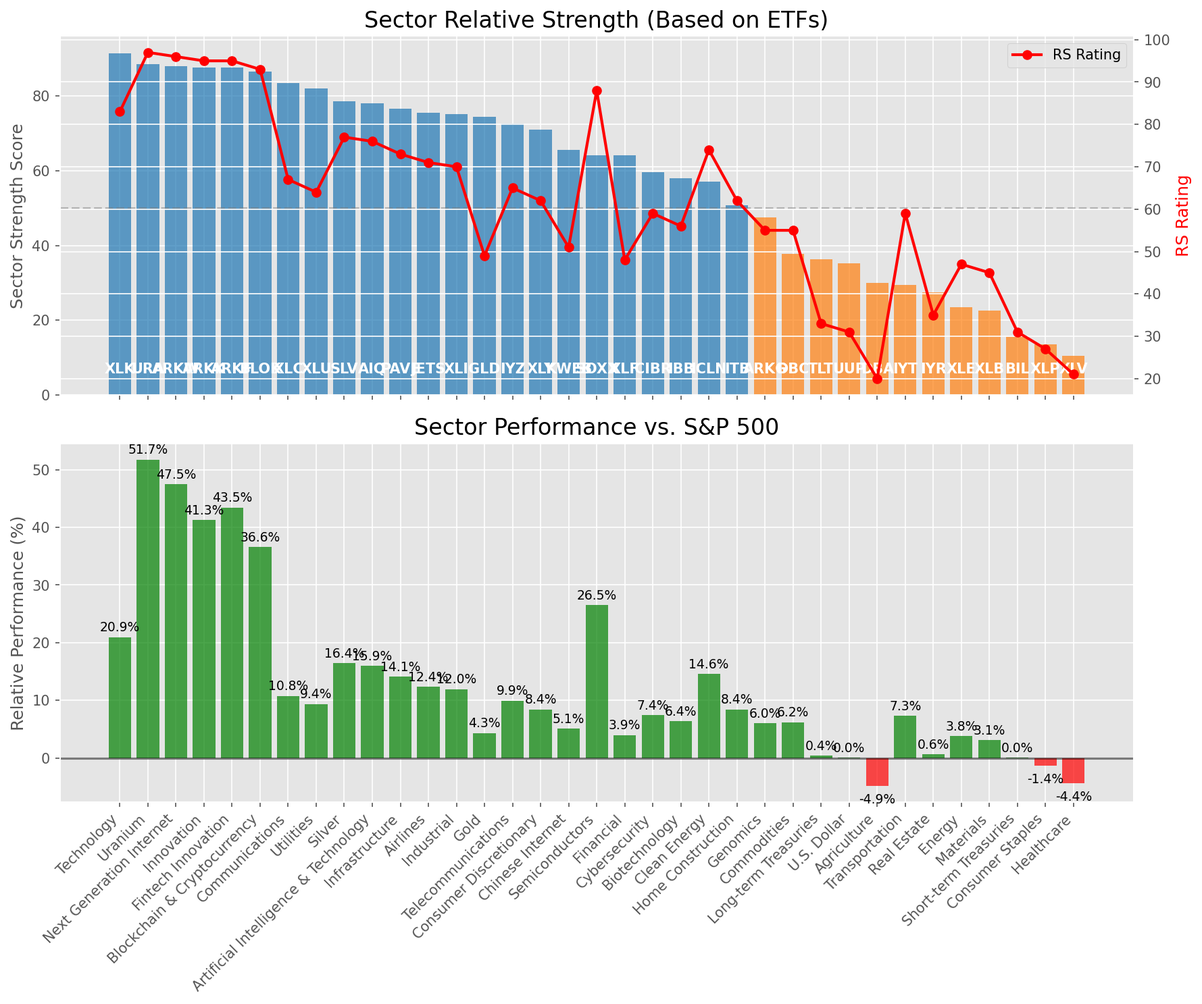
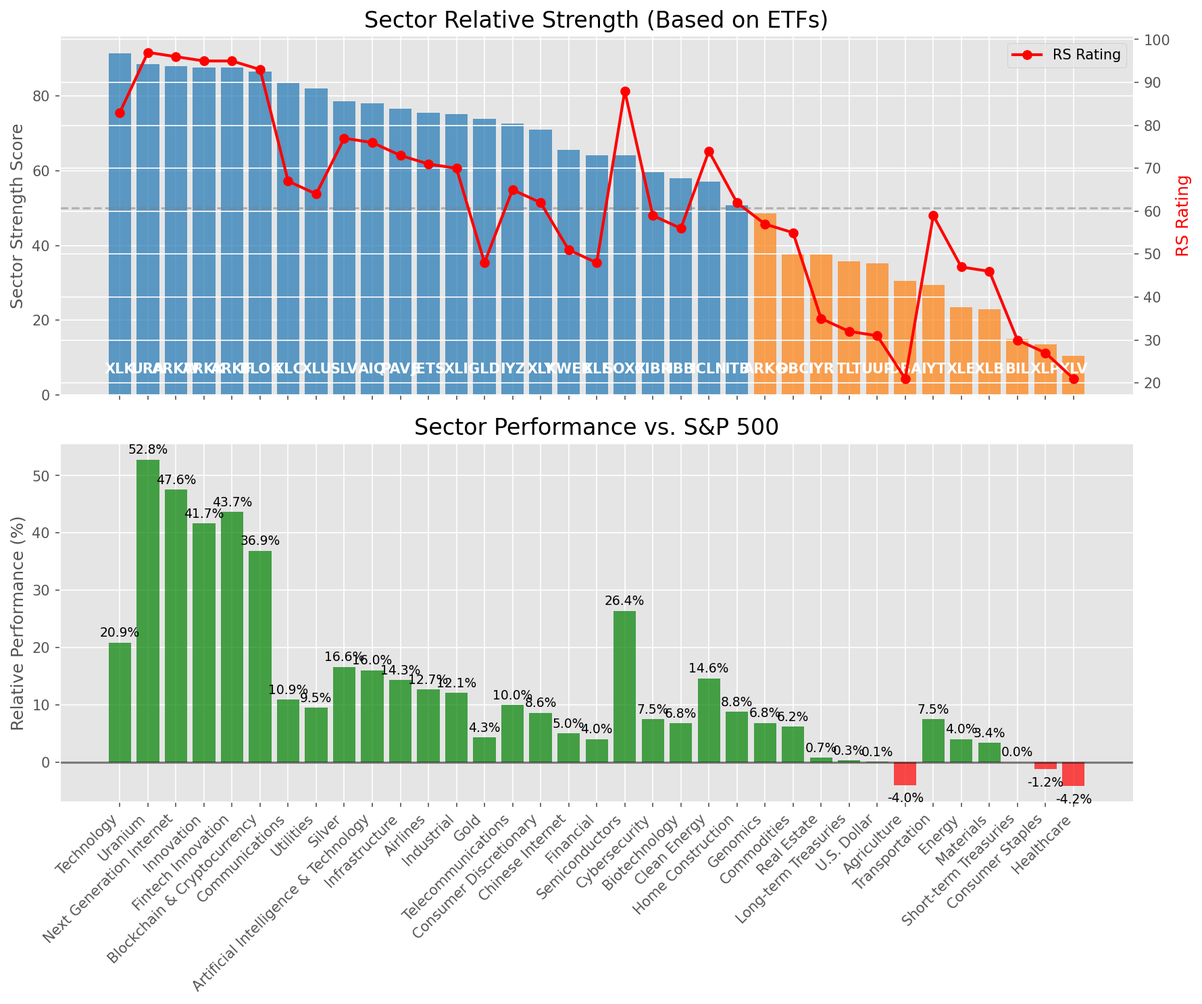
Add market report for 2025-08-04

diff --git a/oneil_relative_strength_report_2025-08-04.md b/oneil_relative_strength_report_2025-08-04.md
@@ -9,11 +9,11 @@
 | Metric | Value |
 |--------|-------|
 | **Market Valuation** | **Fair Valued** |
-| **Current Ratio** | 10.22 |
+| **Current Ratio** | 10.23 |
 | **Historical Mean** | 9.57 |
 | **Standard Deviation** | 0.57 |
 | **Z-Score (StdDev from Mean)** | 0.90 |
-| **Total Market Cap** | $309.88 trillion |
+| **Total Market Cap** | $310.24 trillion |
 | **GDP** | $30.33 trillion |
 
 ## **Market Insights**
@@ -49,41 +49,41 @@ Based on William O'Neil's Relative Strength Methodology
 
 | ETF | Strength | RS Rating | Performance | Above Key MAs | Trend | Sector |
 |-----|----------|-----------|-------------|--------------|-------|--------|
-| [XLK](https://www.tradingview.com/chart/?symbol=XLK) | 91.5 | 83.0 | 20.94% | 10d ✓, 50d ✓, 200d ✓ | ↗ | Technology |
-| [URA](https://www.tradingview.com/chart/?symbol=URA) | 88.6 | 97.0 | 51.74% | 10d ✗, 50d ✓, 200d ✓ | ↗ | Uranium |
-| [ARKW](https://www.tradingview.com/chart/?symbol=ARKW) | 88.1 | 96.0 | 47.46% | 10d ✗, 50d ✓, 200d ✓ | ↗ | Next Generation Internet |
-| [ARKK](https://www.tradingview.com/chart/?symbol=ARKK) | 87.6 | 95.0 | 41.29% | 10d ✗, 50d ✓, 200d ✓ | ↗ | Innovation |
-| [ARKF](https://www.tradingview.com/chart/?symbol=ARKF) | 87.6 | 95.0 | 43.46% | 10d ✗, 50d ✓, 200d ✓ | ↗ | Fintech Innovation |
-| [BLOK](https://www.tradingview.com/chart/?symbol=BLOK) | 86.6 | 93.0 | 36.56% | 10d ✗, 50d ✓, 200d ✓ | ↗ | Blockchain & Cryptocurrency |
-| [XLC](https://www.tradingview.com/chart/?symbol=XLC) | 83.5 | 67.0 | 10.77% | 10d ✓, 50d ✓, 200d ✓ | ↗ | Communications |
-| [XLU](https://www.tradingview.com/chart/?symbol=XLU) | 82.0 | 64.0 | 9.37% | 10d ✓, 50d ✓, 200d ✓ | ↗ | Utilities |
-| [SLV](https://www.tradingview.com/chart/?symbol=SLV) | 78.6 | 77.0 | 16.43% | 10d ✗, 50d ✓, 200d ✓ | ↗ | Silver |
-| [AIQ](https://www.tradingview.com/chart/?symbol=AIQ) | 78.1 | 76.0 | 15.95% | 10d ✗, 50d ✓, 200d ✓ | ↗ | Artificial Intelligence & Technology |
-| [PAVE](https://www.tradingview.com/chart/?symbol=PAVE) | 76.6 | 73.0 | 14.12% | 10d ✗, 50d ✓, 200d ✓ | ↗ | Infrastructure |
-| [JETS](https://www.tradingview.com/chart/?symbol=JETS) | 75.6 | 71.0 | 12.36% | 10d ✗, 50d ✓, 200d ✓ | ↗ | Airlines |
-| [XLI](https://www.tradingview.com/chart/?symbol=XLI) | 75.1 | 70.0 | 11.96% | 10d ✗, 50d ✓, 200d ✓ | ↗ | Industrial |
-| [GLD](https://www.tradingview.com/chart/?symbol=GLD) | 74.5 | 49.0 | 4.30% | 10d ✓, 50d ✓, 200d ✓ | ↗ | Gold |
-| [IYZ](https://www.tradingview.com/chart/?symbol=IYZ) | 72.6 | 65.0 | 9.93% | 10d ✗, 50d ✓, 200d ✓ | ↗ | Telecommunications |
-| [XLY](https://www.tradingview.com/chart/?symbol=XLY) | 71.1 | 62.0 | 8.41% | 10d ✗, 50d ✓, 200d ✓ | ↗ | Consumer Discretionary |
-| [KWEB](https://www.tradingview.com/chart/?symbol=KWEB) | 65.6 | 51.0 | 5.07% | 10d ✗, 50d ✓, 200d ✓ | ↗ | Chinese Internet |
-| [SOXX](https://www.tradingview.com/chart/?symbol=SOXX) | 64.1 | 88.0 | 26.52% | 10d ✗, 50d ✓, 200d ✓ | ↘ | Semiconductors |
-| [XLF](https://www.tradingview.com/chart/?symbol=XLF) | 64.1 | 48.0 | 3.95% | 10d ✗, 50d ✓, 200d ✓ | ↗ | Financial |
-| [CIBR](https://www.tradingview.com/chart/?symbol=CIBR) | 59.7 | 59.0 | 7.40% | 10d ✗, 50d ✗, 200d ✓ | ↗ | Cybersecurity |
-| [IBB](https://www.tradingview.com/chart/?symbol=IBB) | 58.0 | 56.0 | 6.40% | 10d ✓, 50d ✓, 200d ✓ | ↘ | Biotechnology |
-| [ICLN](https://www.tradingview.com/chart/?symbol=ICLN) | 57.1 | 74.0 | 14.57% | 10d ✗, 50d ✓, 200d ✓ | ↘ | Clean Energy |
-| [ITB](https://www.tradingview.com/chart/?symbol=ITB) | 50.8 | 62.0 | 8.42% | 10d ✓, 50d ✓, 200d ✗ | ↘ | Home Construction |
-| [ARKG](https://www.tradingview.com/chart/?symbol=ARKG) | 47.6 | 55.0 | 6.04% | 10d ✗, 50d ✓, 200d ✓ | ↘ | Genomics |
+| [XLK](https://www.tradingview.com/chart/?symbol=XLK) | 91.5 | 83.0 | 20.89% | 10d ✓, 50d ✓, 200d ✓ | ↗ | Technology |
+| [URA](https://www.tradingview.com/chart/?symbol=URA) | 88.6 | 97.0 | 52.79% | 10d ✗, 50d ✓, 200d ✓ | ↗ | Uranium |
+| [ARKW](https://www.tradingview.com/chart/?symbol=ARKW) | 88.1 | 96.0 | 47.59% | 10d ✗, 50d ✓, 200d ✓ | ↗ | Next Generation Internet |
+| [ARKK](https://www.tradingview.com/chart/?symbol=ARKK) | 87.6 | 95.0 | 41.68% | 10d ✗, 50d ✓, 200d ✓ | ↗ | Innovation |
+| [ARKF](https://www.tradingview.com/chart/?symbol=ARKF) | 87.6 | 95.0 | 43.68% | 10d ✗, 50d ✓, 200d ✓ | ↗ | Fintech Innovation |
+| [BLOK](https://www.tradingview.com/chart/?symbol=BLOK) | 86.6 | 93.0 | 36.89% | 10d ✗, 50d ✓, 200d ✓ | ↗ | Blockchain & Cryptocurrency |
+| [XLC](https://www.tradingview.com/chart/?symbol=XLC) | 83.5 | 67.0 | 10.92% | 10d ✓, 50d ✓, 200d ✓ | ↗ | Communications |
+| [XLU](https://www.tradingview.com/chart/?symbol=XLU) | 82.0 | 64.0 | 9.53% | 10d ✓, 50d ✓, 200d ✓ | ↗ | Utilities |
+| [SLV](https://www.tradingview.com/chart/?symbol=SLV) | 78.6 | 77.0 | 16.62% | 10d ✗, 50d ✓, 200d ✓ | ↗ | Silver |
+| [AIQ](https://www.tradingview.com/chart/?symbol=AIQ) | 78.1 | 76.0 | 16.02% | 10d ✗, 50d ✓, 200d ✓ | ↗ | Artificial Intelligence & Technology |
+| [PAVE](https://www.tradingview.com/chart/?symbol=PAVE) | 76.6 | 73.0 | 14.31% | 10d ✗, 50d ✓, 200d ✓ | ↗ | Infrastructure |
+| [JETS](https://www.tradingview.com/chart/?symbol=JETS) | 75.6 | 71.0 | 12.69% | 10d ✗, 50d ✓, 200d ✓ | ↗ | Airlines |
+| [XLI](https://www.tradingview.com/chart/?symbol=XLI) | 75.1 | 70.0 | 12.12% | 10d ✗, 50d ✓, 200d ✓ | ↗ | Industrial |
+| [GLD](https://www.tradingview.com/chart/?symbol=GLD) | 74.0 | 48.0 | 4.34% | 10d ✓, 50d ✓, 200d ✓ | ↗ | Gold |
+| [IYZ](https://www.tradingview.com/chart/?symbol=IYZ) | 72.6 | 65.0 | 9.96% | 10d ✗, 50d ✓, 200d ✓ | ↗ | Telecommunications |
+| [XLY](https://www.tradingview.com/chart/?symbol=XLY) | 71.1 | 62.0 | 8.61% | 10d ✗, 50d ✓, 200d ✓ | ↗ | Consumer Discretionary |
+| [KWEB](https://www.tradingview.com/chart/?symbol=KWEB) | 65.6 | 51.0 | 5.03% | 10d ✗, 50d ✓, 200d ✓ | ↗ | Chinese Internet |
+| [XLF](https://www.tradingview.com/chart/?symbol=XLF) | 64.1 | 48.0 | 4.04% | 10d ✗, 50d ✓, 200d ✓ | ↗ | Financial |
+| [SOXX](https://www.tradingview.com/chart/?symbol=SOXX) | 64.1 | 88.0 | 26.42% | 10d ✗, 50d ✓, 200d ✓ | ↘ | Semiconductors |
+| [CIBR](https://www.tradingview.com/chart/?symbol=CIBR) | 59.7 | 59.0 | 7.48% | 10d ✗, 50d ✗, 200d ✓ | ↗ | Cybersecurity |
+| [IBB](https://www.tradingview.com/chart/?symbol=IBB) | 58.0 | 56.0 | 6.76% | 10d ✓, 50d ✓, 200d ✓ | ↘ | Biotechnology |
+| [ICLN](https://www.tradingview.com/chart/?symbol=ICLN) | 57.1 | 74.0 | 14.61% | 10d ✗, 50d ✓, 200d ✓ | ↘ | Clean Energy |
+| [ITB](https://www.tradingview.com/chart/?symbol=ITB) | 50.8 | 62.0 | 8.78% | 10d ✓, 50d ✓, 200d ✗ | ↘ | Home Construction |
+| [ARKG](https://www.tradingview.com/chart/?symbol=ARKG) | 48.6 | 57.0 | 6.84% | 10d ✗, 50d ✓, 200d ✓ | ↘ | Genomics |
 | [DBC](https://www.tradingview.com/chart/?symbol=DBC) | 37.7 | 55.0 | 6.17% | 10d ✗, 50d ✗, 200d ✓ | ↘ | Commodities |
-| [TLT](https://www.tradingview.com/chart/?symbol=TLT) | 36.3 | 33.0 | 0.38% | 10d ✓, 50d ✓, 200d ✗ | ↘ | Long-term Treasuries |
-| [UUP](https://www.tradingview.com/chart/?symbol=UUP) | 35.3 | 31.0 | 0.04% | 10d ✓, 50d ✓, 200d ✗ | ↘ | U.S. Dollar |
-| [DBA](https://www.tradingview.com/chart/?symbol=DBA) | 30.0 | 20.0 | -4.86% | 10d ✗, 50d ✗, 200d ✗ | ↗ | Agriculture |
-| [IYT](https://www.tradingview.com/chart/?symbol=IYT) | 29.5 | 59.0 | 7.32% | 10d ✗, 50d ✗, 200d ✗ | ↘ | Transportation |
-| [IYR](https://www.tradingview.com/chart/?symbol=IYR) | 27.4 | 35.0 | 0.62% | 10d ✗, 50d ✓, 200d ✗ | ↘ | Real Estate |
-| [XLE](https://www.tradingview.com/chart/?symbol=XLE) | 23.5 | 47.0 | 3.80% | 10d ✗, 50d ✗, 200d ✗ | ↘ | Energy |
-| [XLB](https://www.tradingview.com/chart/?symbol=XLB) | 22.5 | 45.0 | 3.11% | 10d ✗, 50d ✗, 200d ✗ | ↘ | Materials |
-| [BIL](https://www.tradingview.com/chart/?symbol=BIL) | 15.5 | 31.0 | 0.02% | 10d ✗, 50d ✗, 200d ✗ | ↘ | Short-term Treasuries |
-| [XLP](https://www.tradingview.com/chart/?symbol=XLP) | 13.5 | 27.0 | -1.39% | 10d ✗, 50d ✗, 200d ✗ | ↘ | Consumer Staples |
-| [XLV](https://www.tradingview.com/chart/?symbol=XLV) | 10.5 | 21.0 | -4.37% | 10d ✗, 50d ✗, 200d ✗ | ↘ | Healthcare |
+| [IYR](https://www.tradingview.com/chart/?symbol=IYR) | 37.6 | 35.0 | 0.74% | 10d ✗, 50d ✓, 200d ✓ | ↘ | Real Estate |
+| [TLT](https://www.tradingview.com/chart/?symbol=TLT) | 35.8 | 32.0 | 0.29% | 10d ✓, 50d ✓, 200d ✗ | ↘ | Long-term Treasuries |
+| [UUP](https://www.tradingview.com/chart/?symbol=UUP) | 35.3 | 31.0 | 0.10% | 10d ✓, 50d ✓, 200d ✗ | ↘ | U.S. Dollar |
+| [DBA](https://www.tradingview.com/chart/?symbol=DBA) | 30.5 | 21.0 | -4.01% | 10d ✗, 50d ✗, 200d ✗ | ↗ | Agriculture |
+| [IYT](https://www.tradingview.com/chart/?symbol=IYT) | 29.5 | 59.0 | 7.50% | 10d ✗, 50d ✗, 200d ✗ | ↘ | Transportation |
+| [XLE](https://www.tradingview.com/chart/?symbol=XLE) | 23.5 | 47.0 | 4.01% | 10d ✗, 50d ✗, 200d ✗ | ↘ | Energy |
+| [XLB](https://www.tradingview.com/chart/?symbol=XLB) | 23.0 | 46.0 | 3.39% | 10d ✗, 50d ✗, 200d ✗ | ↘ | Materials |
+| [BIL](https://www.tradingview.com/chart/?symbol=BIL) | 15.0 | 30.0 | 0.02% | 10d ✗, 50d ✗, 200d ✗ | ↘ | Short-term Treasuries |
+| [XLP](https://www.tradingview.com/chart/?symbol=XLP) | 13.5 | 27.0 | -1.22% | 10d ✗, 50d ✗, 200d ✗ | ↘ | Consumer Staples |
+| [XLV](https://www.tradingview.com/chart/?symbol=XLV) | 10.5 | 21.0 | -4.15% | 10d ✗, 50d ✗, 200d ✗ | ↘ | Healthcare |
 
 ### **Sector ETF Performance Interpretation**
 
@@ -100,7 +100,7 @@ This table shows the relative strength metrics for different market sectors base
 
 The current market leadership is coming from the following sectors: **Technology, Uranium, Next Generation Internet**.
 
-The **Technology** sector (represented by **XLK**) is showing particularly strong relative strength with an RS rating of 83.0 and performance of 20.94% vs. the S&P 500. This sector is trading above its 10-day, 50-day, 200-day moving average(s). Investors should consider focusing on high RS stocks within these leading sectors for potential outperformance.
+The **Technology** sector (represented by **XLK**) is showing particularly strong relative strength with an RS rating of 83.0 and performance of 20.89% vs. the S&P 500. This sector is trading above its 10-day, 50-day, 200-day moving average(s). Investors should consider focusing on high RS stocks within these leading sectors for potential outperformance.
 
 ---
 
@@ -110,136 +110,131 @@ The following 58 stocks show exceptional relative strength:
 
 | RS Rating | Buy Score | Current Price | Chart | Name | Ticker |
 |-----------|-----------|---------------|-------|------|--------|
-| 100 | 100 | $106.30 | [Chart](https://www.tradingview.com/chart/?symbol=HOOD) | Robinhood Markets, Inc. Class A Common Stock | HOOD |
-| 100 | 100 | $156.29 | [Chart](https://www.tradingview.com/chart/?symbol=SEZL) | Sezzle Inc. Common Stock | SEZL |
-| 100 | 100 | $245.13 | [Chart](https://www.tradingview.com/chart/?symbol=DAVE) | Dave Inc. Class A Common Stock | DAVE |
-| 100 | 100 | $66.31 | [Chart](https://www.tradingview.com/chart/?symbol=MP) | MP Materials Corp. | MP |
-| 100 | 100 | $201.18 | [Chart](https://www.tradingview.com/chart/?symbol=CLS) | Celestica, Inc. | CLS |
-| 99 | 100 | $390.62 | [Chart](https://www.tradingview.com/chart/?symbol=TLN) | Talen Energy Corporation Common Stock | TLN |
-| 99 | 100 | $76.95 | [Chart](https://www.tradingview.com/chart/?symbol=LIF) | Life360, Inc. Common Stock | LIF |
-| 99 | 100 | $130.03 | [Chart](https://www.tradingview.com/chart/?symbol=RBLX) | Roblox Corporation | RBLX |
-| 99 | 100 | $210.74 | [Chart](https://www.tradingview.com/chart/?symbol=NET) | Cloudflare, Inc. Class A common stock, par value $0.001 per share | NET |
-| 98 | 100 | $59.22 | [Chart](https://www.tradingview.com/chart/?symbol=KTOS) | Kratos Defense & Security Solutions, Inc. | KTOS |
-| 98 | 100 | $64.81 | [Chart](https://www.tradingview.com/chart/?symbol=HIMS) | Hims & Hers Health, Inc. | HIMS |
-| 98 | 100 | $662.14 | [Chart](https://www.tradingview.com/chart/?symbol=GEV) | GE Vernova Inc. | GEV |
-| 97 | 100 | $36.02 | [Chart](https://www.tradingview.com/chart/?symbol=ATRO) | Astronics Corp | ATRO |
-| 96 | 100 | $173.62 | [Chart](https://www.tradingview.com/chart/?symbol=NRG) | NRG Energy, Inc. | NRG |
-| 96 | 100 | $178.90 | [Chart](https://www.tradingview.com/chart/?symbol=COOP) | Mr. Cooper Group Inc. Common Stock | COOP |
-| 95 | 100 | $116.28 | [Chart](https://www.tradingview.com/chart/?symbol=SANM) | Sanmina  Corp | SANM |
-| 95 | 100 | $105.38 | [Chart](https://www.tradingview.com/chart/?symbol=VRNA) | Verona Pharma plc | VRNA |
-| 95 | 100 | $369.22 | [Chart](https://www.tradingview.com/chart/?symbol=CVNA) | Carvana Co. | CVNA |
-| 94 | 100 | $89.11 | [Chart](https://www.tradingview.com/chart/?symbol=RYTM) | Rhythm Pharmaceuticals, Inc. Common Stock | RYTM |
-| 94 | 100 | $48.90 | [Chart](https://www.tradingview.com/chart/?symbol=REVG) | REV Group, Inc. | REVG |
-| 94 | 100 | $498.01 | [Chart](https://www.tradingview.com/chart/?symbol=CW) | Curtiss-Wright Corp. | CW |
-| 94 | 100 | $58.78 | [Chart](https://www.tradingview.com/chart/?symbol=VIK) | Viking Holdings Ltd | VIK |
-| 93 | 100 | $49.17 | [Chart](https://www.tradingview.com/chart/?symbol=TOST) | Toast, Inc. | TOST |
-| 93 | 100 | $93.25 | [Chart](https://www.tradingview.com/chart/?symbol=EBAY) | eBay Inc | EBAY |
-| 92 | 100 | $157.41 | [Chart](https://www.tradingview.com/chart/?symbol=VSEC) | VSE Corp | VSEC |
-| 92 | 100 | $260.02 | [Chart](https://www.tradingview.com/chart/?symbol=WWD) | Woodward, Inc. | WWD |
-| 92 | 100 | $275.95 | [Chart](https://www.tradingview.com/chart/?symbol=GE) | GE Aerospace | GE |
-| 92 | 100 | $42.97 | [Chart](https://www.tradingview.com/chart/?symbol=LTM) | LATAM Airlines Group S.A. American Depositary Shares (each representing two thousand (2,000) shares of Common Stock) | LTM |
-| 92 | 100 | $107.95 | [Chart](https://www.tradingview.com/chart/?symbol=APH) | Amphenol Corporation | APH |
-| 91 | 100 | $52.63 | [Chart](https://www.tradingview.com/chart/?symbol=AU) | AngloGold Ashanti plc | AU |
-| 90 | 100 | $80.96 | [Chart](https://www.tradingview.com/chart/?symbol=TPB) | Turning Point Brands, Inc. | TPB |
-| 89 | 100 | $160.13 | [Chart](https://www.tradingview.com/chart/?symbol=PLTR) | Palantir Technologies Inc. Class A Common Stock | PLTR |
-| 89 | 100 | $55.51 | [Chart](https://www.tradingview.com/chart/?symbol=BTI) | British American Tobacco p.l.c. American Depositary Shares, American Depositary Shares, each representing one Ordinary Share | BTI |
-| 88 | 100 | $165.75 | [Chart](https://www.tradingview.com/chart/?symbol=IRTC) | iRhythm Technologies, Inc | IRTC |
-| 87 | 100 | $33.63 | [Chart](https://www.tradingview.com/chart/?symbol=DB) | Deutsche Bank Aktiengesellschaft | DB |
-| 87 | 100 | $258.19 | [Chart](https://www.tradingview.com/chart/?symbol=DASH) | DoorDash, Inc. Class A Common Stock | DASH |
-| 87 | 100 | $29.73 | [Chart](https://www.tradingview.com/chart/?symbol=SRAD) | Sportradar Group AG Class A Ordinary Shares | SRAD |
-| 87 | 100 | $92.01 | [Chart](https://www.tradingview.com/chart/?symbol=RBRK) | Rubrik, Inc. | RBRK |
-| 86 | 99 | $57.93 | [Chart](https://www.tradingview.com/chart/?symbol=ERJ) | Embraer S.A. | ERJ |
-| 88 | 98 | $392.25 | [Chart](https://www.tradingview.com/chart/?symbol=APP) | Applovin Corporation Class A Common Stock | APP |
-| 87 | 98 | $35.51 | [Chart](https://www.tradingview.com/chart/?symbol=APG) | APi Group Corporation | APG |
-| 86 | 98 | $43.20 | [Chart](https://www.tradingview.com/chart/?symbol=FROG) | JFrog Ltd. Ordinary Shares | FROG |
-| 86 | 98 | $28.60 | [Chart](https://www.tradingview.com/chart/?symbol=OR) | OR Royalties Inc. | OR |
-| 86 | 98 | $47.74 | [Chart](https://www.tradingview.com/chart/?symbol=BBIO) | BridgeBio Pharma, Inc. Common Stock | BBIO |
-| 87 | 97 | $188.13 | [Chart](https://www.tradingview.com/chart/?symbol=AWI) | Armstrong World Industries, Inc. | AWI |
-| 87 | 97 | $259.02 | [Chart](https://www.tradingview.com/chart/?symbol=WTS) | Watts Water Technologies, Inc. Class A | WTS |
-| 86 | 97 | $146.64 | [Chart](https://www.tradingview.com/chart/?symbol=PPA) | Invesco Aerospace & Defense ETF | PPA |
-| 85 | 97 | $100.95 | [Chart](https://www.tradingview.com/chart/?symbol=BK) | Bank of New York Mellon Corporation | BK |
-| 83 | 96 | $39.58 | [Chart](https://www.tradingview.com/chart/?symbol=AHR) | American Healthcare REIT, Inc. | AHR |
-| 85 | 95 | $96.49 | [Chart](https://www.tradingview.com/chart/?symbol=NDAQ) | Nasdaq, Inc. Common Stock | NDAQ |
-| 84 | 95 | $197.55 | [Chart](https://www.tradingview.com/chart/?symbol=ITA) | iShares U.S. Aerospace & Defense ETF | ITA |
-| 84 | 94 | $50.82 | [Chart](https://www.tradingview.com/chart/?symbol=FHI) | Federated Hermes, Inc. | FHI |
-| 83 | 94 | $72.32 | [Chart](https://www.tradingview.com/chart/?symbol=ULS) | UL Solutions Inc. | ULS |
-| 82 | 93 | $241.31 | [Chart](https://www.tradingview.com/chart/?symbol=BAP) | Credicorp LTD | BAP |
-| 81 | 93 | $321.26 | [Chart](https://www.tradingview.com/chart/?symbol=FFIV) | F5, Inc. Common Stock | FFIV |
-| 82 | 92 | $111.71 | [Chart](https://www.tradingview.com/chart/?symbol=SXT) | Sensient Technology Corporation | SXT |
-| 82 | 92 | $19.03 | [Chart](https://www.tradingview.com/chart/?symbol=LQDA) | Liquidia Corporation Common Stock | LQDA |
-| 80 | 90 | $75.09 | [Chart](https://www.tradingview.com/chart/?symbol=ODD) | ODDITY Tech Ltd. Class A Ordinary Shares | ODD |
+| 100 | 100 | $105.98 | [Chart](https://www.tradingview.com/chart/?symbol=HOOD) | Robinhood Markets, Inc. Class A Common Stock | HOOD |
+| 100 | 100 | $67.00 | [Chart](https://www.tradingview.com/chart/?symbol=MP) | MP Materials Corp. | MP |
+| 100 | 100 | $201.80 | [Chart](https://www.tradingview.com/chart/?symbol=CLS) | Celestica, Inc. | CLS |
+| 100 | 100 | $243.84 | [Chart](https://www.tradingview.com/chart/?symbol=DAVE) | Dave Inc. Class A Common Stock | DAVE |
+| 100 | 100 | $155.65 | [Chart](https://www.tradingview.com/chart/?symbol=SEZL) | Sezzle Inc. Common Stock | SEZL |
+| 99 | 100 | $209.78 | [Chart](https://www.tradingview.com/chart/?symbol=NET) | Cloudflare, Inc. Class A common stock, par value $0.001 per share | NET |
+| 99 | 100 | $390.50 | [Chart](https://www.tradingview.com/chart/?symbol=TLN) | Talen Energy Corporation Common Stock | TLN |
+| 99 | 100 | $77.20 | [Chart](https://www.tradingview.com/chart/?symbol=LIF) | Life360, Inc. Common Stock | LIF |
+| 99 | 100 | $130.36 | [Chart](https://www.tradingview.com/chart/?symbol=RBLX) | Roblox Corporation | RBLX |
+| 98 | 100 | $59.06 | [Chart](https://www.tradingview.com/chart/?symbol=KTOS) | Kratos Defense & Security Solutions, Inc. | KTOS |
+| 98 | 100 | $661.00 | [Chart](https://www.tradingview.com/chart/?symbol=GEV) | GE Vernova Inc. | GEV |
+| 98 | 100 | $24.23 | [Chart](https://www.tradingview.com/chart/?symbol=CPS) | Cooper-Standard Automotive Inc. | CPS |
+| 97 | 100 | $36.06 | [Chart](https://www.tradingview.com/chart/?symbol=ATRO) | Astronics Corp | ATRO |
+| 97 | 100 | $64.18 | [Chart](https://www.tradingview.com/chart/?symbol=HIMS) | Hims & Hers Health, Inc. | HIMS |
+| 96 | 100 | $177.25 | [Chart](https://www.tradingview.com/chart/?symbol=COOP) | Mr. Cooper Group Inc. Common Stock | COOP |
+| 96 | 100 | $173.80 | [Chart](https://www.tradingview.com/chart/?symbol=NRG) | NRG Energy, Inc. | NRG |
+| 95 | 100 | $116.69 | [Chart](https://www.tradingview.com/chart/?symbol=SANM) | Sanmina  Corp | SANM |
+| 95 | 100 | $105.46 | [Chart](https://www.tradingview.com/chart/?symbol=VRNA) | Verona Pharma plc | VRNA |
+| 95 | 100 | $365.27 | [Chart](https://www.tradingview.com/chart/?symbol=CVNA) | Carvana Co. | CVNA |
+| 94 | 100 | $49.05 | [Chart](https://www.tradingview.com/chart/?symbol=REVG) | REV Group, Inc. | REVG |
+| 94 | 100 | $89.67 | [Chart](https://www.tradingview.com/chart/?symbol=RYTM) | Rhythm Pharmaceuticals, Inc. Common Stock | RYTM |
+| 94 | 100 | $497.48 | [Chart](https://www.tradingview.com/chart/?symbol=CW) | Curtiss-Wright Corp. | CW |
+| 94 | 100 | $58.87 | [Chart](https://www.tradingview.com/chart/?symbol=VIK) | Viking Holdings Ltd | VIK |
+| 93 | 100 | $93.00 | [Chart](https://www.tradingview.com/chart/?symbol=EBAY) | eBay Inc | EBAY |
+| 93 | 100 | $49.45 | [Chart](https://www.tradingview.com/chart/?symbol=TOST) | Toast, Inc. | TOST |
+| 92 | 100 | $259.57 | [Chart](https://www.tradingview.com/chart/?symbol=WWD) | Woodward, Inc. | WWD |
+| 92 | 100 | $108.25 | [Chart](https://www.tradingview.com/chart/?symbol=APH) | Amphenol Corporation | APH |
+| 92 | 100 | $275.79 | [Chart](https://www.tradingview.com/chart/?symbol=GE) | GE Aerospace | GE |
+| 92 | 100 | $43.00 | [Chart](https://www.tradingview.com/chart/?symbol=LTM) | LATAM Airlines Group S.A. American Depositary Shares (each representing two thousand (2,000) shares of Common Stock) | LTM |
+| 92 | 100 | $157.17 | [Chart](https://www.tradingview.com/chart/?symbol=VSEC) | VSE Corp | VSEC |
+| 91 | 100 | $52.68 | [Chart](https://www.tradingview.com/chart/?symbol=AU) | AngloGold Ashanti plc | AU |
+| 90 | 100 | $160.72 | [Chart](https://www.tradingview.com/chart/?symbol=PLTR) | Palantir Technologies Inc. Class A Common Stock | PLTR |
+| 89 | 100 | $55.44 | [Chart](https://www.tradingview.com/chart/?symbol=BTI) | British American Tobacco p.l.c. American Depositary Shares, American Depositary Shares, each representing one Ordinary Share | BTI |
+| 88 | 100 | $166.38 | [Chart](https://www.tradingview.com/chart/?symbol=IRTC) | iRhythm Technologies, Inc | IRTC |
+| 88 | 100 | $81.02 | [Chart](https://www.tradingview.com/chart/?symbol=TPB) | Turning Point Brands, Inc. | TPB |
+| 87 | 100 | $92.03 | [Chart](https://www.tradingview.com/chart/?symbol=RBRK) | Rubrik, Inc. | RBRK |
+| 87 | 100 | $33.65 | [Chart](https://www.tradingview.com/chart/?symbol=DB) | Deutsche Bank Aktiengesellschaft | DB |
+| 87 | 100 | $258.52 | [Chart](https://www.tradingview.com/chart/?symbol=DASH) | DoorDash, Inc. Class A Common Stock | DASH |
+| 86 | 100 | $29.58 | [Chart](https://www.tradingview.com/chart/?symbol=SRAD) | Sportradar Group AG Class A Ordinary Shares | SRAD |
+| 89 | 99 | $393.88 | [Chart](https://www.tradingview.com/chart/?symbol=APP) | Applovin Corporation Class A Common Stock | APP |
+| 88 | 99 | $35.59 | [Chart](https://www.tradingview.com/chart/?symbol=APG) | APi Group Corporation | APG |
+| 87 | 99 | $43.55 | [Chart](https://www.tradingview.com/chart/?symbol=FROG) | JFrog Ltd. Ordinary Shares | FROG |
+| 86 | 99 | $58.20 | [Chart](https://www.tradingview.com/chart/?symbol=ERJ) | Embraer S.A. | ERJ |
+| 88 | 98 | $189.14 | [Chart](https://www.tradingview.com/chart/?symbol=AWI) | Armstrong World Industries, Inc. | AWI |
+| 86 | 98 | $28.70 | [Chart](https://www.tradingview.com/chart/?symbol=OR) | OR Royalties Inc. | OR |
+| 86 | 98 | $47.88 | [Chart](https://www.tradingview.com/chart/?symbol=BBIO) | BridgeBio Pharma, Inc. Common Stock | BBIO |
+| 87 | 97 | $260.28 | [Chart](https://www.tradingview.com/chart/?symbol=WTS) | Watts Water Technologies, Inc. Class A | WTS |
+| 85 | 97 | $101.04 | [Chart](https://www.tradingview.com/chart/?symbol=BK) | Bank of New York Mellon Corporation | BK |
+| 84 | 97 | $39.70 | [Chart](https://www.tradingview.com/chart/?symbol=AHR) | American Healthcare REIT, Inc. | AHR |
+| 86 | 96 | $19.62 | [Chart](https://www.tradingview.com/chart/?symbol=LQDA) | Liquidia Corporation Common Stock | LQDA |
+| 85 | 96 | $146.79 | [Chart](https://www.tradingview.com/chart/?symbol=PPA) | Invesco Aerospace & Defense ETF | PPA |
+| 85 | 95 | $96.66 | [Chart](https://www.tradingview.com/chart/?symbol=NDAQ) | Nasdaq, Inc. Common Stock | NDAQ |
+| 84 | 95 | $197.88 | [Chart](https://www.tradingview.com/chart/?symbol=ITA) | iShares U.S. Aerospace & Defense ETF | ITA |
+| 83 | 94 | $72.72 | [Chart](https://www.tradingview.com/chart/?symbol=ULS) | UL Solutions Inc. | ULS |
+| 83 | 93 | $50.80 | [Chart](https://www.tradingview.com/chart/?symbol=FHI) | Federated Hermes, Inc. | FHI |
+| 82 | 93 | $241.50 | [Chart](https://www.tradingview.com/chart/?symbol=BAP) | Credicorp LTD | BAP |
+| 81 | 93 | $320.34 | [Chart](https://www.tradingview.com/chart/?symbol=FFIV) | F5, Inc. Common Stock | FFIV |
+| 82 | 92 | $112.52 | [Chart](https://www.tradingview.com/chart/?symbol=SXT) | Sensient Technology Corporation | SXT |
 
 ---
 
 
 ## **Sell Recommendations**
 
-The following 62 stocks show deteriorating relative strength:
+The following 57 stocks show deteriorating relative strength:
 
 | RS Rating | Sell Score | Current Price | Chart | Name | Ticker |
 |-----------|------------|---------------|-------|------|--------|
+| 1 | 100 | $16.95 | [Chart](https://www.tradingview.com/chart/?symbol=DJT) | Trump Media & Technology Group Corp. Common Stock | DJT |
 | 1 | 100 | $11.86 | [Chart](https://www.tradingview.com/chart/?symbol=NVDS) | Investment Managers Series Trust II Tradr 1.5X Short NVDA Daily ETF | NVDS |
-| 1 | 100 | $70.73 | [Chart](https://www.tradingview.com/chart/?symbol=LNTH) | Lantheus Holdings, Inc | LNTH |
-| 1 | 100 | $16.96 | [Chart](https://www.tradingview.com/chart/?symbol=DJT) | Trump Media & Technology Group Corp. Common Stock | DJT |
-| 2 | 100 | $13.65 | [Chart](https://www.tradingview.com/chart/?symbol=CLBT) | Cellebrite DI Ltd. Class A Ordinary Shares | CLBT |
-| 3 | 100 | $24.06 | [Chart](https://www.tradingview.com/chart/?symbol=ZSL) | ProShares UltraShort Silver | ZSL |
-| 4 | 100 | $22.30 | [Chart](https://www.tradingview.com/chart/?symbol=HELE) | Helen Of Troy Ltd | HELE |
-| 4 | 100 | $10.16 | [Chart](https://www.tradingview.com/chart/?symbol=ARDT) | Ardent Health, Inc. | ARDT |
-| 6 | 100 | $14.00 | [Chart](https://www.tradingview.com/chart/?symbol=EWTX) | Edgewise Therapeutics, Inc. Common Stock | EWTX |
+| 2 | 100 | $13.68 | [Chart](https://www.tradingview.com/chart/?symbol=CLBT) | Cellebrite DI Ltd. Class A Ordinary Shares | CLBT |
+| 3 | 100 | $24.01 | [Chart](https://www.tradingview.com/chart/?symbol=ZSL) | ProShares UltraShort Silver | ZSL |
+| 5 | 100 | $13.87 | [Chart](https://www.tradingview.com/chart/?symbol=EWTX) | Edgewise Therapeutics, Inc. Common Stock | EWTX |
+| 5 | 100 | $22.52 | [Chart](https://www.tradingview.com/chart/?symbol=HELE) | Helen Of Troy Ltd | HELE |
+| 5 | 100 | $41.67 | [Chart](https://www.tradingview.com/chart/?symbol=SDOW) | ProShares UltraPro Short Dow 30 | SDOW |
 | 6 | 100 | $20.39 | [Chart](https://www.tradingview.com/chart/?symbol=KIDS) | OrthoPediatrics Corp. Common Stock | KIDS |
-| 7 | 100 | $12.78 | [Chart](https://www.tradingview.com/chart/?symbol=CDNA) | CareDx, Inc. | CDNA |
 | 7 | 100 | $20.57 | [Chart](https://www.tradingview.com/chart/?symbol=AMRK) | A-Mark Precious Metals, Inc. | AMRK |
 | 7 | 100 | $10.37 | [Chart](https://www.tradingview.com/chart/?symbol=OEC) | Orion S.A. | OEC |
-| 8 | 100 | $21.15 | [Chart](https://www.tradingview.com/chart/?symbol=AMPH) | Amphastar Pharmaceuticals, Inc. | AMPH |
-| 9 | 100 | $35.89 | [Chart](https://www.tradingview.com/chart/?symbol=LZB) | La-Z-Boy Incorporated | LZB |
-| 10 | 100 | $54.87 | [Chart](https://www.tradingview.com/chart/?symbol=HRB) | H&R Block, Inc. | HRB |
+| 8 | 100 | $12.83 | [Chart](https://www.tradingview.com/chart/?symbol=CDNA) | CareDx, Inc. | CDNA |
+| 9 | 100 | $21.25 | [Chart](https://www.tradingview.com/chart/?symbol=AMPH) | Amphastar Pharmaceuticals, Inc. | AMPH |
+| 9 | 100 | $36.01 | [Chart](https://www.tradingview.com/chart/?symbol=LZB) | La-Z-Boy Incorporated | LZB |
+| 10 | 100 | $54.95 | [Chart](https://www.tradingview.com/chart/?symbol=HRB) | H&R Block, Inc. | HRB |
 | 12 | 100 | $52.44 | [Chart](https://www.tradingview.com/chart/?symbol=AMWD) | American Woodmark Corp | AMWD |
-| 13 | 100 | $15.16 | [Chart](https://www.tradingview.com/chart/?symbol=FIHL) | Fidelis Insurance Holdings Limited | FIHL |
-| 6 | 99 | $41.84 | [Chart](https://www.tradingview.com/chart/?symbol=SDOW) | ProShares UltraPro Short Dow 30 | SDOW |
-| 6 | 99 | $21.14 | [Chart](https://www.tradingview.com/chart/?symbol=BLFS) | BioLife Solutions Inc. | BLFS |
+| 13 | 100 | $15.18 | [Chart](https://www.tradingview.com/chart/?symbol=FIHL) | Fidelis Insurance Holdings Limited | FIHL |
+| 6 | 99 | $21.15 | [Chart](https://www.tradingview.com/chart/?symbol=BLFS) | BioLife Solutions Inc. | BLFS |
 | 6 | 99 | $14.75 | [Chart](https://www.tradingview.com/chart/?symbol=PLSE) | Pulse Biosciences, Inc Common Stock (DE) | PLSE |
-| 8 | 99 | $12.54 | [Chart](https://www.tradingview.com/chart/?symbol=BSM) | Black Stone Minerals, L.P. | BSM |
-| 7 | 98 | $19.48 | [Chart](https://www.tradingview.com/chart/?symbol=GAP) | The Gap, Inc. | GAP |
-| 12 | 96 | $18.98 | [Chart](https://www.tradingview.com/chart/?symbol=AVBP) | ArriVent BioPharma, Inc. Common Stock | AVBP |
-| 11 | 94 | $49.70 | [Chart](https://www.tradingview.com/chart/?symbol=PRCT) | PROCEPT BioRobotics Corporation Common Stock | PRCT |
-| 13 | 94 | $11.24 | [Chart](https://www.tradingview.com/chart/?symbol=SHC) | Sotera Health Company Common Stock | SHC |
+| 8 | 98 | $12.57 | [Chart](https://www.tradingview.com/chart/?symbol=BSM) | Black Stone Minerals, L.P. | BSM |
+| 7 | 97 | $19.45 | [Chart](https://www.tradingview.com/chart/?symbol=GAP) | The Gap, Inc. | GAP |
+| 11 | 97 | $18.88 | [Chart](https://www.tradingview.com/chart/?symbol=AVBP) | ArriVent BioPharma, Inc. Common Stock | AVBP |
+| 13 | 94 | $11.31 | [Chart](https://www.tradingview.com/chart/?symbol=SHC) | Sotera Health Company Common Stock | SHC |
 | 16 | 94 | $127.40 | [Chart](https://www.tradingview.com/chart/?symbol=ICUI) | ICU Medical Inc | ICUI |
+| 12 | 93 | $50.25 | [Chart](https://www.tradingview.com/chart/?symbol=PRCT) | PROCEPT BioRobotics Corporation Common Stock | PRCT |
+| 14 | 93 | $21.72 | [Chart](https://www.tradingview.com/chart/?symbol=CURB) | Curbline Properties Corp. | CURB |
 | 15 | 93 | $13.16 | [Chart](https://www.tradingview.com/chart/?symbol=GOOD) | Gladstone Commercial Corporation - REIT | GOOD |
-| 15 | 93 | $21.72 | [Chart](https://www.tradingview.com/chart/?symbol=CURB) | Curbline Properties Corp. | CURB |
-| 10 | 92 | $32.09 | [Chart](https://www.tradingview.com/chart/?symbol=GLBE) | Global-E Online Ltd. Ordinary Shares | GLBE |
-| 14 | 92 | $16.68 | [Chart](https://www.tradingview.com/chart/?symbol=CTO) | CTO Realty Growth, Inc. | CTO |
-| 23 | 91 | $16.78 | [Chart](https://www.tradingview.com/chart/?symbol=SVOL) | Simplify Volatility Premium ETF | SVOL |
-| 12 | 90 | $39.19 | [Chart](https://www.tradingview.com/chart/?symbol=SH) | ProShares Short S&P500 | SH |
-| 13 | 90 | $10.13 | [Chart](https://www.tradingview.com/chart/?symbol=ACIC) | American Coastal Insurance Corporation Common Stock | ACIC |
-| 19 | 89 | $12.06 | [Chart](https://www.tradingview.com/chart/?symbol=WSR) | Whitestone REIT | WSR |
-| 23 | 87 | $10.03 | [Chart](https://www.tradingview.com/chart/?symbol=NMZ) | Nuveen Municipal High Income Opportunity Fund | NMZ |
-| 16 | 86 | $98.24 | [Chart](https://www.tradingview.com/chart/?symbol=AFL) | Aflac Inc. | AFL |
-| 21 | 86 | $85.19 | [Chart](https://www.tradingview.com/chart/?symbol=BCO) | The Brink's Company | BCO |
-| 23 | 86 | $12.58 | [Chart](https://www.tradingview.com/chart/?symbol=ZYME) | Zymeworks Inc. | ZYME |
-| 23 | 84 | $13.04 | [Chart](https://www.tradingview.com/chart/?symbol=CCRN) | Cross Country Healthcare Inc | CCRN |
-| 28 | 83 | $13.48 | [Chart](https://www.tradingview.com/chart/?symbol=OCSL) | Oaktree Specialty Lending Corporation | OCSL |
-| 27 | 82 | $94.44 | [Chart](https://www.tradingview.com/chart/?symbol=IRM) | Iron Mountain Inc. | IRM |
-| 33 | 82 | $11.99 | [Chart](https://www.tradingview.com/chart/?symbol=M) | Macy's Inc. | M |
-| 21 | 81 | $188.22 | [Chart](https://www.tradingview.com/chart/?symbol=AIZ) | Assurant, Inc. | AIZ |
-| 21 | 81 | $10.27 | [Chart](https://www.tradingview.com/chart/?symbol=BRKL) | Brookline Bancorp Inc | BRKL |
-| 26 | 81 | $11.76 | [Chart](https://www.tradingview.com/chart/?symbol=NVG) | Nuveen AMT-Free Municipal Credit Income Fund | NVG |
-| 23 | 80 | $31.58 | [Chart](https://www.tradingview.com/chart/?symbol=DAR) | DARLING INGREDIENTS INC. | DAR |
-| 23 | 79 | $12.04 | [Chart](https://www.tradingview.com/chart/?symbol=NU) | Nu Holdings Ltd. | NU |
-| 24 | 78 | $44.56 | [Chart](https://www.tradingview.com/chart/?symbol=EPI) | WisdomTree India Earnings Fund ETF | EPI |
-| 25 | 78 | $154.28 | [Chart](https://www.tradingview.com/chart/?symbol=NICE) | NICE Ltd | NICE |
-| 39 | 78 | $15.63 | [Chart](https://www.tradingview.com/chart/?symbol=ZIM) | ZIM Integrated Shipping Services Ltd. | ZIM |
-| 27 | 77 | $12.32 | [Chart](https://www.tradingview.com/chart/?symbol=RQI) | COHEN & STEERS QUALITY INCOME REALTY FUND, INC. COMMON SHARES | RQI |
-| 29 | 77 | $140.32 | [Chart](https://www.tradingview.com/chart/?symbol=DVA) | DaVita Inc. | DVA |
-| 30 | 76 | $23.29 | [Chart](https://www.tradingview.com/chart/?symbol=IBTF) | iShares iBonds Dec 2025 Term Treasury ETF | IBTF |
-| 31 | 76 | $78.89 | [Chart](https://www.tradingview.com/chart/?symbol=GPN) | Global Payments, Inc. | GPN |
-| 32 | 76 | $18.90 | [Chart](https://www.tradingview.com/chart/?symbol=KRNT) | Kornit Digital Ltd. | KRNT |
-| 32 | 74 | $59.91 | [Chart](https://www.tradingview.com/chart/?symbol=FTSM) | First Trust Enhanced Short Maturity ETF | FTSM |
-| 36 | 74 | $40.40 | [Chart](https://www.tradingview.com/chart/?symbol=APOG) | Apogee Enterprises Inc | APOG |
-| 30 | 72 | $22.86 | [Chart](https://www.tradingview.com/chart/?symbol=IBTG) | iShares iBonds Dec 2026 Term Treasury ETF | IBTG |
-| 33 | 71 | $23.14 | [Chart](https://www.tradingview.com/chart/?symbol=IBHF) | iShares iBonds 2026 Term High Yield and Income ETF | IBHF |
-| 31 | 70 | $78.88 | [Chart](https://www.tradingview.com/chart/?symbol=FIS) | Fidelity National Information Services, Inc. | FIS |
-| 37 | 68 | $55.01 | [Chart](https://www.tradingview.com/chart/?symbol=ALRM) | Alarm.com Holdings, Inc. | ALRM |
-| 34 | 67 | $45.93 | [Chart](https://www.tradingview.com/chart/?symbol=FTSL) | First Trust Senior Loan Fund ETF | FTSL |
+| 14 | 92 | $16.64 | [Chart](https://www.tradingview.com/chart/?symbol=CTO) | CTO Realty Growth, Inc. | CTO |
+| 22 | 92 | $16.79 | [Chart](https://www.tradingview.com/chart/?symbol=SVOL) | Simplify Volatility Premium ETF | SVOL |
+| 10 | 91 | $32.23 | [Chart](https://www.tradingview.com/chart/?symbol=GLBE) | Global-E Online Ltd. Ordinary Shares | GLBE |
+| 12 | 91 | $10.13 | [Chart](https://www.tradingview.com/chart/?symbol=ACIC) | American Coastal Insurance Corporation Common Stock | ACIC |
+| 12 | 90 | $39.17 | [Chart](https://www.tradingview.com/chart/?symbol=SH) | ProShares Short S&P500 | SH |
+| 19 | 88 | $12.06 | [Chart](https://www.tradingview.com/chart/?symbol=WSR) | Whitestone REIT | WSR |
+| 21 | 88 | $87.78 | [Chart](https://www.tradingview.com/chart/?symbol=BCO) | The Brink's Company | BCO |
+| 23 | 86 | $10.04 | [Chart](https://www.tradingview.com/chart/?symbol=NMZ) | Nuveen Municipal High Income Opportunity Fund | NMZ |
+| 22 | 85 | $13.04 | [Chart](https://www.tradingview.com/chart/?symbol=CCRN) | Cross Country Healthcare Inc | CCRN |
+| 25 | 83 | $12.67 | [Chart](https://www.tradingview.com/chart/?symbol=ZYME) | Zymeworks Inc. | ZYME |
+| 28 | 83 | $13.50 | [Chart](https://www.tradingview.com/chart/?symbol=OCSL) | Oaktree Specialty Lending Corporation | OCSL |
+| 32 | 83 | $11.98 | [Chart](https://www.tradingview.com/chart/?symbol=M) | Macy's Inc. | M |
+| 25 | 82 | $11.76 | [Chart](https://www.tradingview.com/chart/?symbol=NVG) | Nuveen AMT-Free Municipal Credit Income Fund | NVG |
+| 27 | 82 | $94.67 | [Chart](https://www.tradingview.com/chart/?symbol=IRM) | Iron Mountain Inc. | IRM |
+| 20 | 81 | $188.23 | [Chart](https://www.tradingview.com/chart/?symbol=AIZ) | Assurant, Inc. | AIZ |
+| 21 | 81 | $10.30 | [Chart](https://www.tradingview.com/chart/?symbol=BRKL) | Brookline Bancorp Inc | BRKL |
+| 24 | 79 | $31.68 | [Chart](https://www.tradingview.com/chart/?symbol=DAR) | DARLING INGREDIENTS INC. | DAR |
+| 24 | 78 | $44.53 | [Chart](https://www.tradingview.com/chart/?symbol=EPI) | WisdomTree India Earnings Fund ETF | EPI |
+| 28 | 78 | $140.26 | [Chart](https://www.tradingview.com/chart/?symbol=DVA) | DaVita Inc. | DVA |
+| 39 | 78 | $15.65 | [Chart](https://www.tradingview.com/chart/?symbol=ZIM) | ZIM Integrated Shipping Services Ltd. | ZIM |
+| 24 | 77 | $12.12 | [Chart](https://www.tradingview.com/chart/?symbol=NU) | Nu Holdings Ltd. | NU |
+| 26 | 77 | $154.96 | [Chart](https://www.tradingview.com/chart/?symbol=NICE) | NICE Ltd | NICE |
+| 31 | 77 | $18.90 | [Chart](https://www.tradingview.com/chart/?symbol=KRNT) | Kornit Digital Ltd. | KRNT |
+| 31 | 75 | $23.29 | [Chart](https://www.tradingview.com/chart/?symbol=IBTF) | iShares iBonds Dec 2025 Term Treasury ETF | IBTF |
+| 35 | 75 | $40.40 | [Chart](https://www.tradingview.com/chart/?symbol=APOG) | Apogee Enterprises Inc | APOG |
+| 36 | 75 | $10.53 | [Chart](https://www.tradingview.com/chart/?symbol=LOCO) | El Pollo Loco Holdings, Inc. | LOCO |
+| 31 | 74 | $59.92 | [Chart](https://www.tradingview.com/chart/?symbol=FTSM) | First Trust Enhanced Short Maturity ETF | FTSM |
+| 28 | 73 | $23.85 | [Chart](https://www.tradingview.com/chart/?symbol=FFBC) | First Financial Bancorp | FFBC |
+| 30 | 70 | $22.86 | [Chart](https://www.tradingview.com/chart/?symbol=IBTG) | iShares iBonds Dec 2026 Term Treasury ETF | IBTG |
+| 34 | 67 | $45.94 | [Chart](https://www.tradingview.com/chart/?symbol=FTSL) | First Trust Senior Loan Fund ETF | FTSL |
+| 39 | 65 | $55.27 | [Chart](https://www.tradingview.com/chart/?symbol=ALRM) | Alarm.com Holdings, Inc. | ALRM |
 
 ## **Methodology**
 
